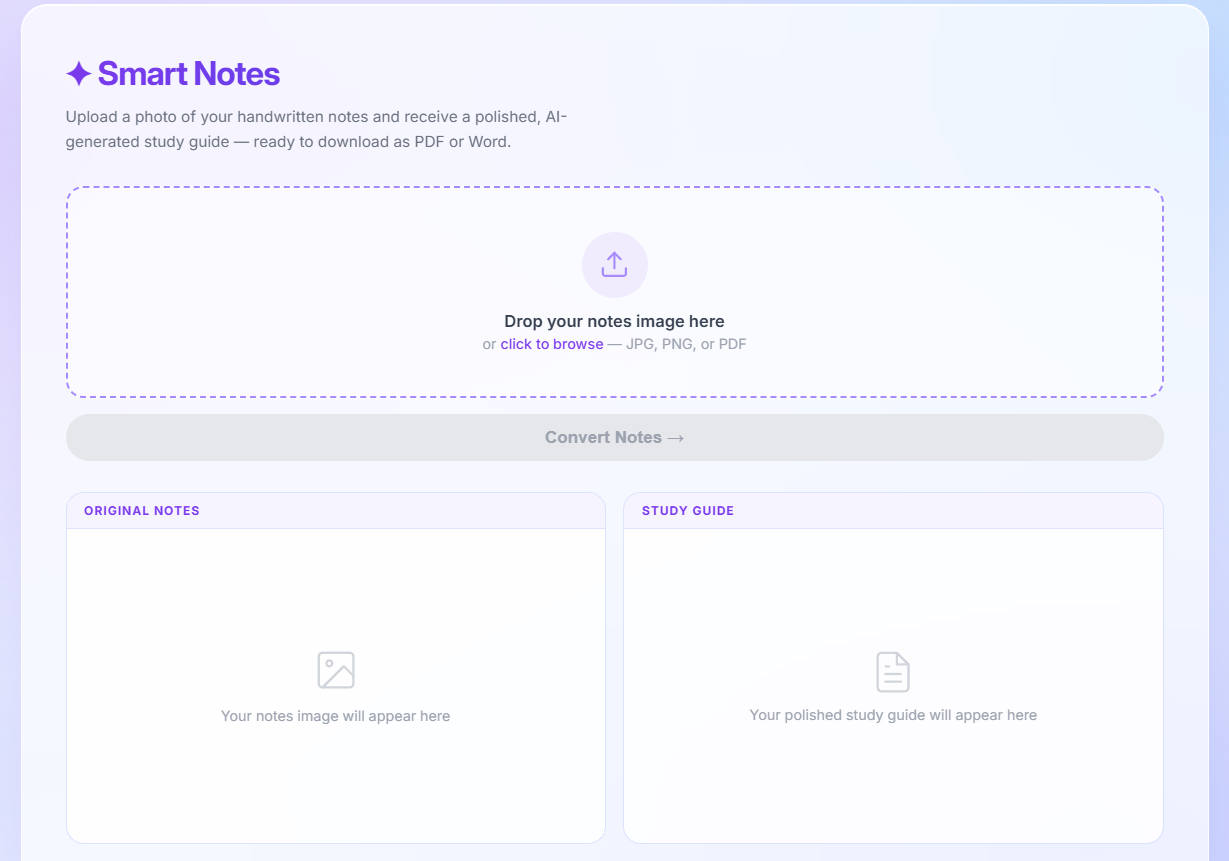
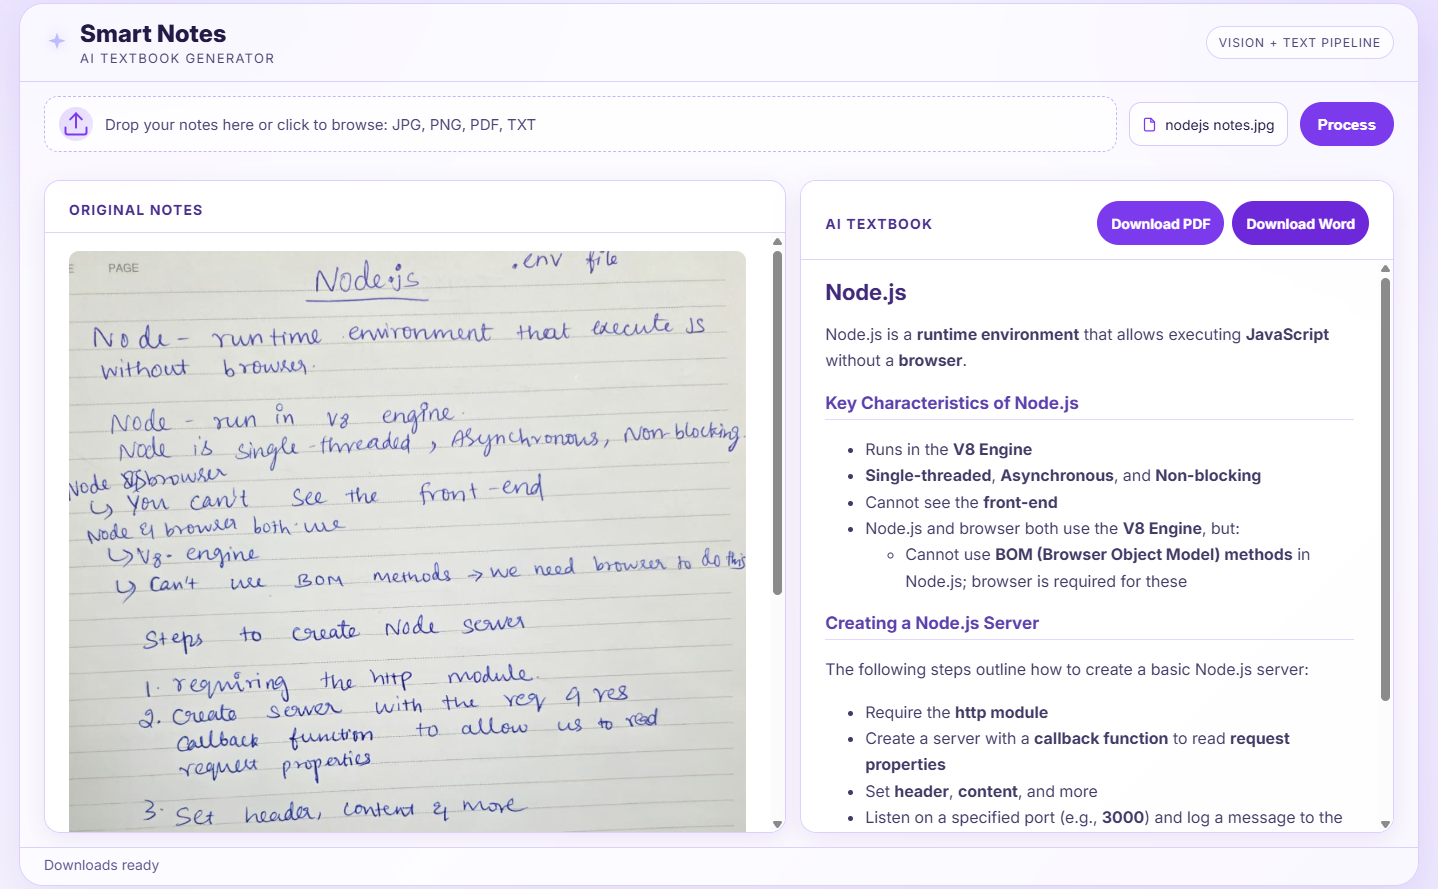
updated README file

diff --git a/README.md b/README.md
@@ -4,6 +4,14 @@
 
 ---
 
+## 🔗 Project Deployment
+
+| Service | Live Link |
+| :--- | :--- |
+| **Frontend UI** | [https://smart-notes-app-xzas.onrender.com/](https://smart-notes-app-xzas.onrender.com/) |
+| **Backend API** | [https://smart-notes-backend-mue6.onrender.com/docs](https://smart-notes-backend-mue6.onrender.com/docs) |
+---
+
 ## 🚀 Key Features
 
 * **Open-Source AI Pipeline:** Uses LangChain orchestration with Groq-hosted open-weight models.
